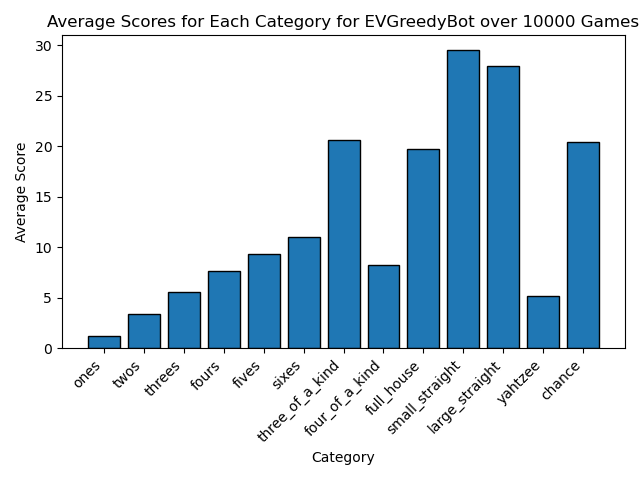
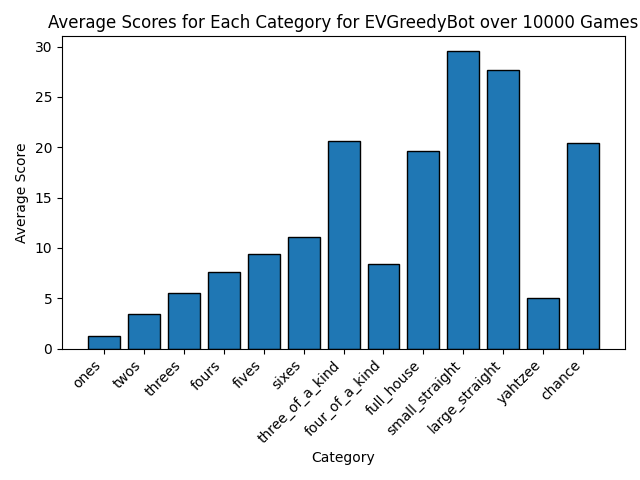
messed around with more greedy bots

diff --git a/lookup_tables/EVLookup.py b/lookup_tables/EVLookup.py
@@ -1,0 +1,81 @@
+import itertools
+import json
+
+def generate_ev_lookup_table():
+    categories = ["ones", "twos", "threes", "fours", "fives", "sixes", "three_of_a_kind", "four_of_a_kind", "full_house", "small_straight", "large_straight", "yahtzee", "chance"]
+    lookup_table = {}
+
+    for category in categories:
+        for length in range(0, 6):  # Iterate over lengths from 1 to 5
+            for dice in itertools.product(range(1, 7), repeat=length):
+                dice_tuple = tuple(sorted(dice))
+                dice_key = str(dice_tuple)  # Convert tuple to string
+                if dice_key not in lookup_table:
+                    lookup_table[dice_key] = {}
+                lookup_table[dice_key][category] = calculate_ev(dice, category)
+
+    with open('ev_lookup_table.json', 'w') as f:
+        json.dump(lookup_table, f)
+
+def calculate_ev(dice, category):
+        # Shortcuts for certain categories to avoid full enumeration
+        if len(dice) < 5:
+            # Ones through Sixes have predictable EV
+            if category in ["ones", "twos", "threes", "fours", "fives", "sixes"]:
+                num = {"ones": 1, "twos": 2, "threes": 3, "fours": 4, "fives": 5, "sixes": 6}[category]
+                missing_dice = 5 - len(dice)
+                current_count = dice.count(num)
+                return ((current_count + (missing_dice * (1/6))) * num)
+
+         # Chance has a simple linear expectation
+            if category == "chance":
+                missing_dice = 5 - len(dice)
+                return sum(dice) + (missing_dice * 3.5)
+
+            # For more complex categories, use full enumeration
+            total_ev = 0
+            missing_dice = 5 - len(dice)
+            for roll_combination in itertools.product(range(1, 7), repeat=missing_dice):
+                full_dice = list(dice) + list(roll_combination)
+                score = calculate_score(full_dice, category)
+                prob = 1 / (6 ** missing_dice)
+                total_ev += score * prob
+        
+            return total_ev
+
+        # If 5 dice, simply return the score
+        return calculate_score(dice, category)
+
+def calculate_score(dice, category):
+        counts = {x: dice.count(x) for x in range(1, 7)}
+        if category == "ones":
+            return counts[1] * 1
+        elif category == "twos":
+            return counts[2] * 2
+        elif category == "threes":
+            return counts[3] * 3
+        elif category == "fours":
+            return counts[4] * 4
+        elif category == "fives":
+            return counts[5] * 5
+        elif category == "sixes":
+            return counts[6] * 6
+        elif category == "three_of_a_kind":
+            return sum(dice) if max(counts.values()) >= 3 else 0
+        elif category == "four_of_a_kind":
+            return sum(dice) if max(counts.values()) >= 4 else 0
+        elif category == "full_house":
+            return 25 if sorted(counts.values(), reverse=True)[:2] == [3, 2] else 0
+        elif category == "small_straight":
+            return 30 if any(set(range(start, start + 4)).issubset(dice) for start in range(1, 4)) else 0
+        elif category == "large_straight":
+            return 40 if set(range(1, 6)).issubset(dice) or set(range(2, 7)).issubset(dice) else 0
+        elif category == "yahtzee":
+            return 50 if max(counts.values()) == 5 else 0
+        elif category == "chance":
+            return sum(dice)
+        else:
+            return 0
+
+# Generate the lookup table
+generate_ev_lookup_table()

diff --git a/GreedyBots.py b/GreedyBots.py
@@ -68,4 +68,75 @@ class EVGreedyBot(Bot):
     
         return list(best_subset)
 
+class MAXGreedyBot(EVGreedyBot):
+    def __init__(self):
+        super().__init__()
     
+    def best_subset_to_keep(self, dice, available_categories):
+        best_ev = -1
+        best_subset = []
+        # Generate all possible combinations of dice to keep
+        for r in range(6):  # 0 to 5 dice can be kept
+            for subset in itertools.combinations(range(5), r):
+                kept_dice = [dice[i] for i in subset]
+            
+                # Calculate the expected value across all categories
+                ev = max(self.calculate_ev(kept_dice, category) for category in available_categories) / len(available_categories)
+            
+                if ev > best_ev:
+                    best_ev = ev
+                    best_subset = subset
+    
+        return list(best_subset)
+
+class EpsilonGreedyBot(EVGreedyBot):
+    def __init__(self, epsilon=0.1):
+        super().__init__()
+        self.epsilon = epsilon
+
+    def best_subset_to_keep(self, dice, available_categories):
+        if random.random() < self.epsilon:
+            # With probability epsilon, act like MAXGreedyBot
+            best_ev = -1
+            best_subset = []
+            # Generate all possible combinations of dice to keep
+            for r in range(6):  # 0 to 5 dice can be kept
+                for subset in itertools.combinations(range(5), r):
+                    kept_dice = [dice[i] for i in subset]
+                    # Max EV over all categories
+                    ev = max(self.calculate_ev(kept_dice, category) for category in available_categories)
+                    if ev > best_ev:
+                        best_ev = ev
+                        best_subset = subset
+            return list(best_subset)
+        else:
+            # With probability 1 - epsilon, act like EVGreedyBot
+            return super().best_subset_to_keep(dice, available_categories)
+
+class TaperingBot(EVGreedyBot):
+    def __init__(self):
+        super().__init__()
+        self.round = 0  # Initialize round counter
+
+    def best_subset_to_keep(self, dice, available_categories):
+        # Increment round counter
+        self.round += 1
+
+        if self.round <= 6:
+            # Use MAXGreedy strategy in rounds 1-6
+            best_ev = -1
+            best_subset = []
+            for r in range(6):  # 0 to 5 dice can be kept
+                for subset in itertools.combinations(range(5), r):
+                    kept_dice = [dice[i] for i in subset]
+                    # Max EV over all categories
+                    ev = max(self.calculate_ev(kept_dice, category) for category in available_categories)
+                    if ev > best_ev:
+                        best_ev = ev
+                        best_subset = subset
+            return list(best_subset)
+        else:
+            # Use EVGreedy strategy in rounds 7-13
+            return super().best_subset_to_keep(dice, available_categories)
+
+

diff --git a/player.py b/player.py
@@ -1,4 +1,5 @@
 import itertools
+import json
 
 class Player:
     def __init__(self, name):
@@ -9,6 +10,8 @@ class Player:
             "large_straight": None, "yahtzee": None, "chance": None
         }
         self.total_score = 0
+        with open('lookup_tables/ev_lookup_table.json', 'r') as f:
+            self.ev_lookup_table = json.load(f)
 
     def decide_keep_or_end(self, dice):
         print(f"Dice: {dice}")
@@ -65,33 +68,6 @@ class Player:
             return 0
     
     def calculate_ev(self, dice, category):
-        # Shortcuts for certain categories to avoid full enumeration
-        if len(dice) < 5:
-            # Ones through Sixes have predictable EV
-            if category in ["ones", "twos", "threes", "fours", "fives", "sixes"]:
-                num = {"ones": 1, "twos": 2, "threes": 3, "fours": 4, "fives": 5, "sixes": 6}[category]
-                missing_dice = 5 - len(dice)
-                current_count = dice.count(num)
-                return ((current_count + (missing_dice * (1/6))) * num)
-
-         # Chance has a simple linear expectation
-            if category == "chance":
-                missing_dice = 5 - len(dice)
-                return sum(dice) + (missing_dice * 3.5)
-
-            # For more complex categories, use full enumeration
-            total_ev = 0
-            missing_dice = 5 - len(dice)
-            for roll_combination in itertools.product(range(1, 7), repeat=missing_dice):
-                full_dice = list(dice) + list(roll_combination)
-                score = self.calculate_score(full_dice, category)
-                prob = 1 / (6 ** missing_dice)
-                total_ev += score * prob
-        
-            return total_ev
-
-        # If 5 dice, simply return the score
-        return self.calculate_score(dice, category)
-    
-    
-
+        dice_tuple = tuple(sorted(dice))
+        dice_key = str(dice_tuple)
+        return self.ev_lookup_table[dice_key][category]

diff --git a/lookup_tables/EVGreedyLookup.py b/lookup_tables/EVGreedyLookup.py
@@ -1,0 +1,45 @@
+import itertools
+import json
+
+with open('lookup_tables/ev_lookup_table.json', 'r') as f:
+    ev_lookup_table = json.load(f)
+
+def generate_best_subset_lookup_table():
+    categories = ["ones", "twos", "threes", "fours", "fives", "sixes", "three_of_a_kind", "four_of_a_kind", "full_house", "small_straight", "large_straight", "yahtzee", "chance"]
+    lookup_table = {}
+
+    for dice in itertools.product(range(1, 7), repeat=5):
+        dice_tuple = tuple(sorted(dice))
+        for r in range(1, len(categories) + 1):
+            for available_categories in itertools.combinations(categories, r):
+                key = (dice_tuple, available_categories)
+                lookup_table[str(key)] = best_subset_to_keep(dice, available_categories)
+
+    with open('lookup_tables/best_subset_lookup_table.json', 'w') as f:
+        json.dump(lookup_table, f)
+
+def best_subset_to_keep(dice, available_categories):
+    best_ev = -1
+    best_subset = []
+    # Generate all possible combinations of dice to keep
+    for r in range(6):  # 0 to 5 dice can be kept
+        for subset in itertools.combinations(range(5), r):
+            kept_dice = [dice[i] for i in subset]
+        
+            # Calculate the expected value across all categories
+            ev = sum(calculate_ev(kept_dice, category) for category in available_categories) / len(available_categories)
+        
+            if ev > best_ev:
+                best_ev = ev
+                best_subset = subset
+
+    return list(best_subset)
+
+def calculate_ev(dice, category):
+    dice_tuple = tuple(sorted(dice))
+    dice_key = str(dice_tuple)
+    return ev_lookup_table[dice_key][category]
+    
+
+# Generate the lookup table
+generate_best_subset_lookup_table()

diff --git a/BotTest.py b/BotTest.py
@@ -1,7 +1,7 @@
 import matplotlib.pyplot as plt
 from game import Game
 from RandomBots import RandomBot1, RandomBot2
-from GreedyBots import RandomGreedyBot, EVGreedyBot
+from GreedyBots import RandomGreedyBot, EVGreedyBot, MAXGreedyBot, EpsilonGreedyBot, TaperingBot
 import numpy as np
 import os
 from tqdm import tqdm
@@ -59,4 +59,4 @@ def test_bot(bot_class, num_games=10000, output_dir="output"):
     plt.close()
 
 # Example usage
-test_bot(EVGreedyBot)
+test_bot(TaperingBot)
